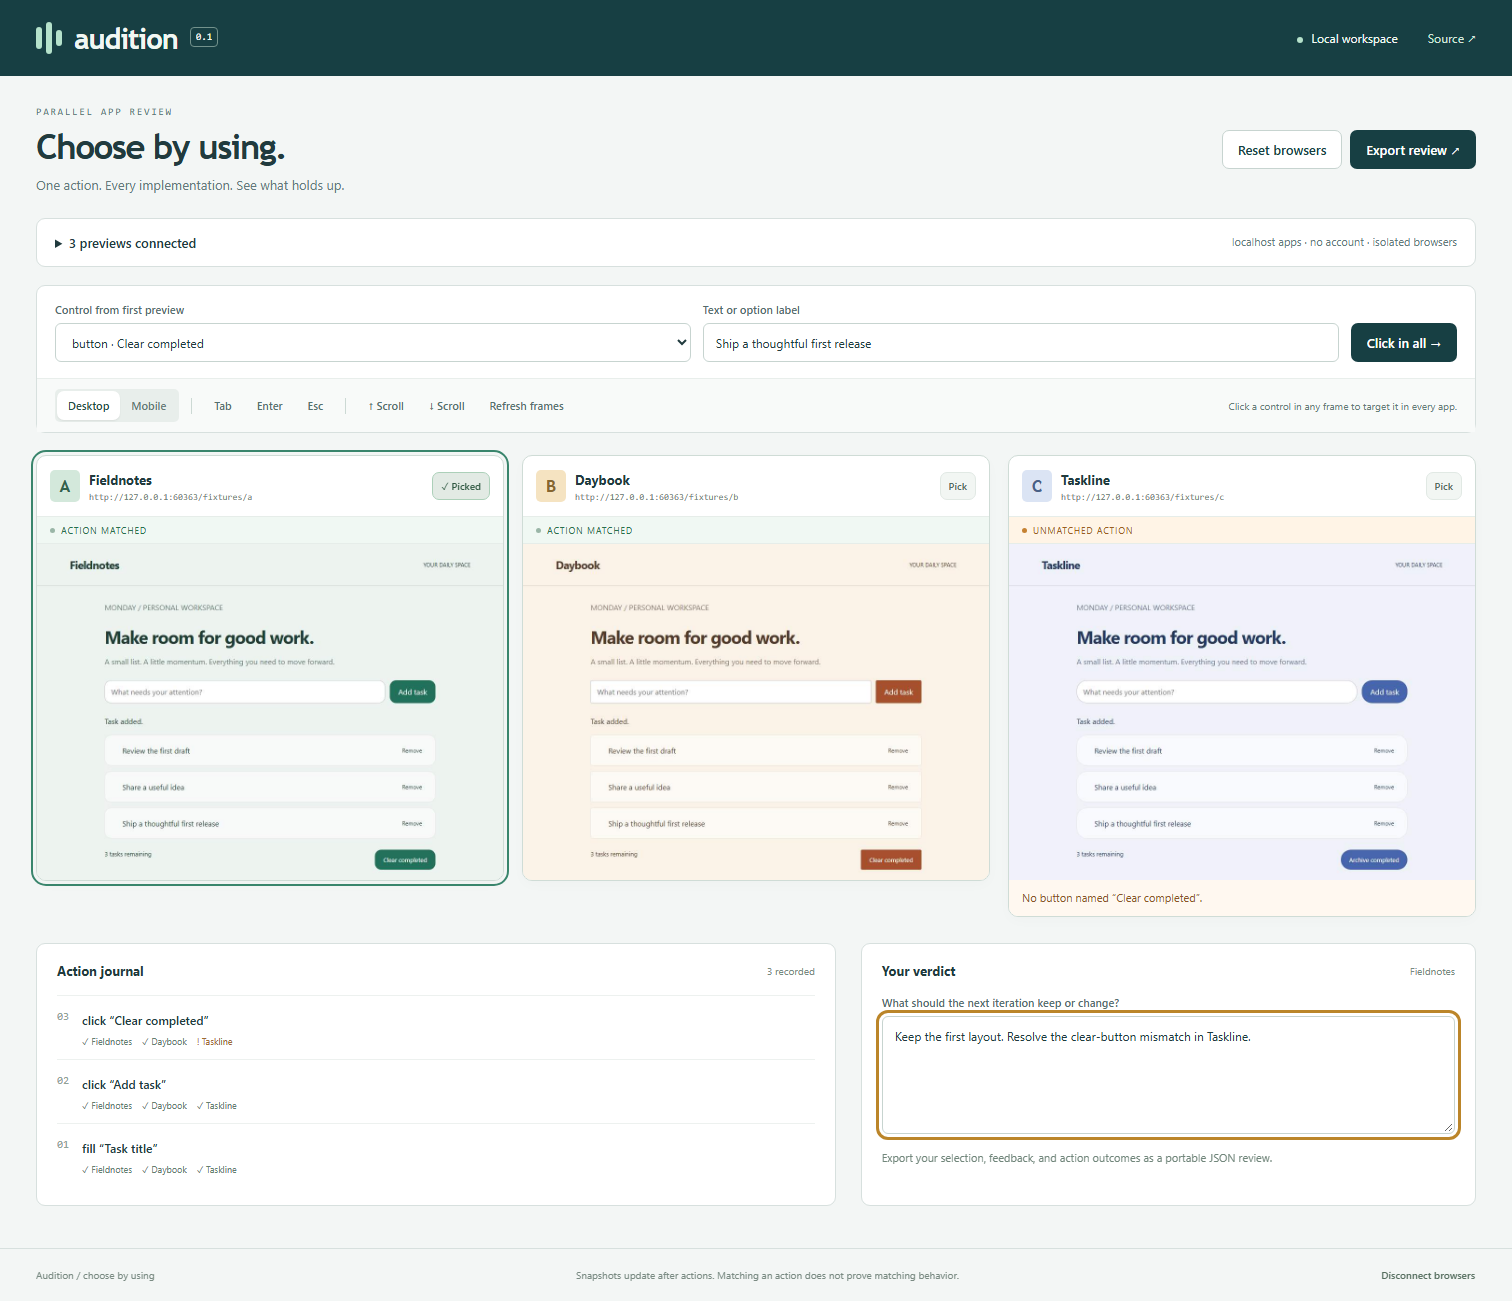
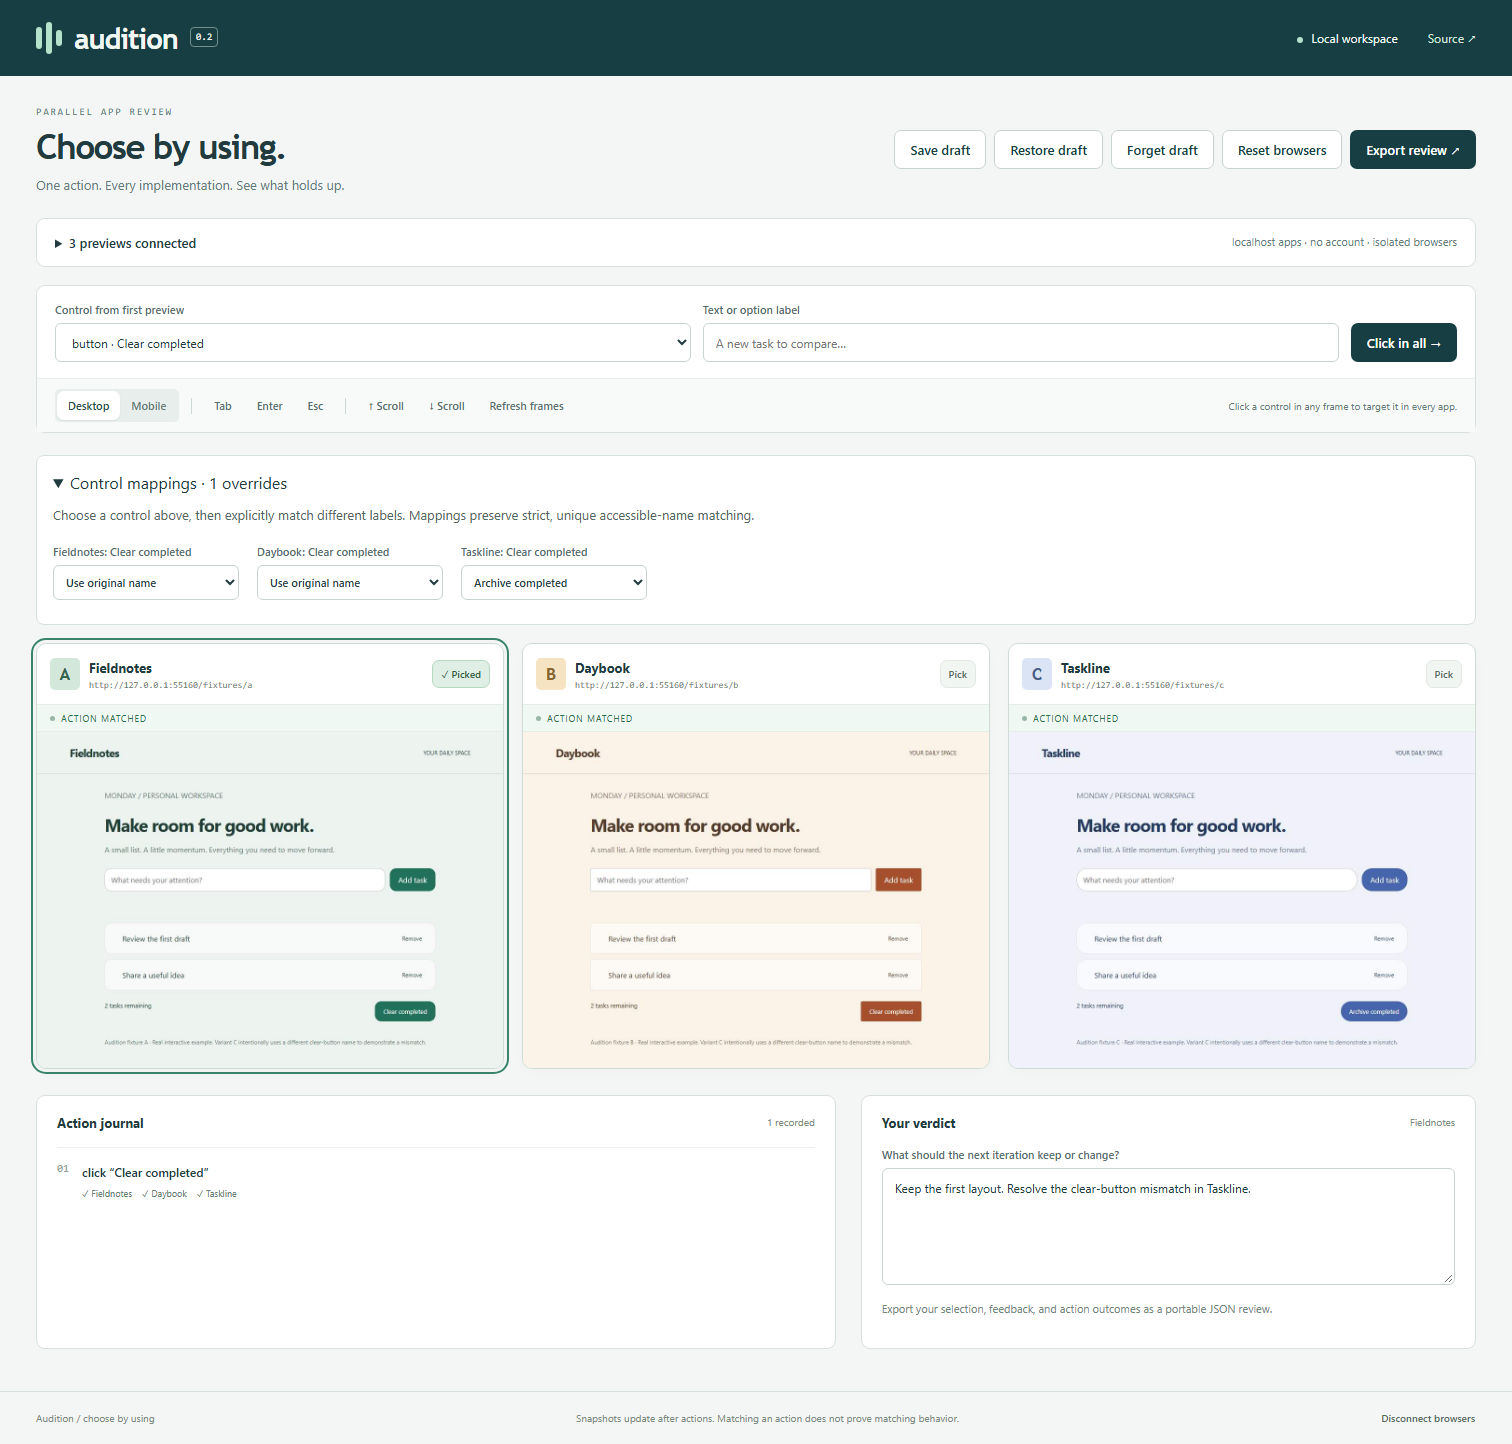
release: document and validate Audition 0.2

diff --git a/site/index.html b/site/index.html
@@ -233,7 +233,7 @@ npm run dev</pre>
       </p>
     </main>
     <footer>
-      <span>Audition · MIT license · v0.1.0</span
+      <span>Audition · MIT license · v0.2.0</span
       ><a
         href="https://github.com/alfonza1/audition/blob/feat/initial-release/SECURITY.md"
         >Security and limitations</a

diff --git a/README.md b/README.md
@@ -4,7 +4,7 @@
 
 Audition lets you operate two or three local web apps side by side. Fill a named field, click a button, or switch to mobile once. Each app gets the equivalent action in an isolated Chromium browser. Missing or ambiguous controls are reported honestly, so a mismatch becomes useful feedback.
 
-![Audition comparing three real task-board implementations and reporting a missing control](docs/images/workspace.png)
+![Audition comparing three real task-board implementations with explicit control mappings](docs/images/workspace.png)
 
 [Project page](https://alfonza1.github.io/audition/) · [Architecture](docs/architecture.md) · [Contributing](CONTRIBUTING.md) · [Security](SECURITY.md)
 
@@ -34,7 +34,7 @@ These are real browser actions, not coordinated mock animations. The fixtures ar
 
 ## Compare your own branches
 
-Start each branch's dev server on a different port, then connect their URLs in Audition. The apps need shared accessible names for equivalent controls:
+Start each branch's dev server on a different port, then connect their URLs in Audition. The apps can share accessible names for equivalent controls, or use explicit per-preview mappings:
 
 ```tsx
 <label htmlFor="title">Task title</label>
@@ -46,7 +46,7 @@ The matching key is an exact **role + accessible name**. One match is required. 
 
 App navigation through matched links works within supported localhost origins. Each preview has independent cookies and local storage; existing browser profiles and sign-in sessions are never used.
 
-## What works in 0.1
+## What works in 0.2
 
 - Two or three isolated local app previews, captured after each action.
 - Named buttons, links, textboxes, checkboxes, radios, switches, and select controls.
@@ -55,6 +55,14 @@ App navigation through matched links works within supported localhost origins. E
 - Explicit per-preview match/mismatch outcomes and a 100-event journal.
 - Browser-state reset, variant selection, feedback, and JSON review export.
 - Real local fixture apps for an immediate demo.
+
+## Map different labels and resume a review
+
+Select **button · Clear completed**, open **Control mappings**, and set Taskline to **Archive completed**. The next click uses that exact control in Taskline and the original name elsewhere. Only controls with the same role can be mapped; missing or duplicate matches still fail visibly. Mappings appear in exported reviews and survive browser reset.
+
+**Save draft** stores the connected URLs, notes, selected variant and mappings in this browser's local storage. **Restore draft** validates the URLs and mappings again, opens fresh browser contexts, and restores the review notes. It does not replay actions, restore cookies or recover database state. **Forget draft** removes the saved copy. Drafts are opt-in and contain local URLs/notes, but never the typed action journal. They persist across server restarts when the controller URL/port stays the same.
+
+A failed connection preserves the current working previews and journal. A disconnected Chromium process can be recovered with **Reset browsers**. Concurrent requests return HTTP 409 instead of interleaving mutations; refresh a second tab after the active action finishes.
 
 ## Deliberate boundaries
 
@@ -89,6 +97,6 @@ Worktree managers handle development orchestration; BrowserSync synchronizes bro
 
 ## Roadmap
 
-Explicit per-variant control mappings, saved journeys, application-provided reset hooks, and optional tightly scoped network allowlists. No automatic source merging is promised.
+Saved journeys, application-provided reset hooks, and optional tightly scoped network allowlists. No automatic source merging is promised.
 
 MIT licensed. See [CHANGELOG](CHANGELOG.md) for versioned release notes.

diff --git a/docs/architecture.md b/docs/architecture.md
@@ -40,3 +40,9 @@ These controls reduce unintended access; they are not an OS-level containment bo
 ## Deployment
 
 The controller is not intended for public hosting. `site/` is a static introduction with a real captured screenshot and installation instructions. GitHub Pages can publish that site; it cannot run Chromium or control localhost app sessions. No third-party analytics or paid resources are used.
+
+## 0.2 recovery and mappings
+
+The engine serializes all API browser operations with an exclusive guard. Requests during an operation receive 409; no unbounded task queue is retained. Reconnect prepares replacement contexts before closing the old set, briefly allowing at most six contexts. Failed navigation disposes only replacements and preserves prior journal/mappings. Reset preserves mappings and replaces contexts; a disconnected browser process is relaunched.
+
+Mappings are explicit role/name pairs per lane, bounded to 100, with same-role and duplicate-key validation. Evidence records the actual resolved target and whether it was mapped. Browser-local drafts hold configuration and human review notes only, not page storage, action values or screenshots. Restore passes through server URL/mapping validation before replacing the active session. Drafts are scoped to the controller origin and persisted only by user request.

diff --git a/docs/verification.md b/docs/verification.md
@@ -20,3 +20,7 @@ Verified behaviors:
 Review traced URL validation, HTTP Host/Origin checks, body limits, Chromium request routes, action validation, context cleanup, and exports. Limitations are explicit in the README and architecture document. The tool is for trusted local apps, not hostile-workload containment. Chromium isolation is not a substitute for an OS security boundary.
 
 CI is configured for Windows and Linux. Local execution alone does not establish a Linux CI result; consult the repository's Actions page for the actual run.
+
+### 0.2 verification
+
+Added integration assertions for held-operation HTTP 409 responses, failed reconnect preserving lane identity and journal, invalid duplicate mappings, real mapped actions, mapping retention after reset, Chromium process restart recovery, browser draft save/reload/restore/delete, mobile mapping layout and missing-draft errors. The UI uses a synchronous request guard and locks startup until recovery completes. Code review inspected mapping input bounds, draft privacy, rollback behavior and atomic API operations; no blocking findings remain.

diff --git a/CHANGELOG.md b/CHANGELOG.md
@@ -1,5 +1,13 @@
 # Changelog
 
+## 0.2.0
+
+- Explicit per-preview semantic control mappings, preserved across reset and included in review evidence.
+- Opt-in local review drafts with restore and deletion; restore revalidates URLs and mapping limits.
+- Transactional reconnect keeps the working session on navigation failure; crashed Chromium can be relaunched through reset.
+- HTTP 409 concurrency protection covers screenshots, hit testing, reports and mutations.
+- Expanded desktop/mobile integration coverage for mappings, drafts, recovery and failures.
+
 ## 0.1.0
 
 Initial release: local comparison of two or three independent web apps, semantic click/fill/select/keyboard actions, screenshot targeting, desktop/mobile viewports, mismatch reporting, isolated browser resets, variant picks, review notes, and JSON export. Includes three functioning demo apps, real-browser tests, security boundaries, and a static project page.
